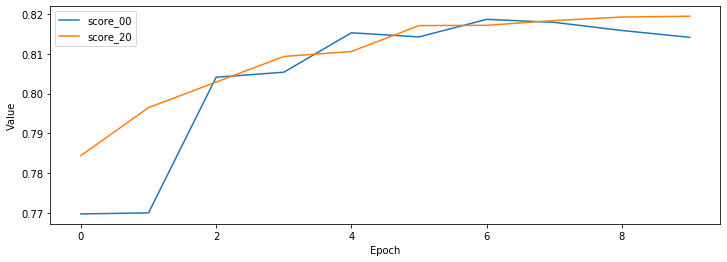
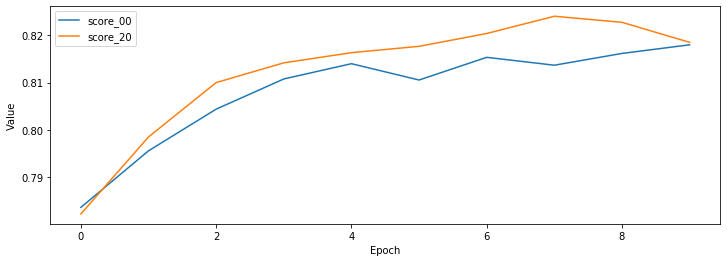
change bert model

diff --git a/_posts/2020-01-02-bert-01.md b/_posts/2020-01-02-bert-01.md
@@ -134,8 +134,13 @@ class Encoder(nn.Module):
 
 #### 3. BERT
 
-BERT는 단순히 Transformer Encoder를 실행합니다.  
-Pretrain된 모델을 저장하기위한 save, 저장된 모델을 읽기위한 load 함수가 추가로 정의 되었습니다.
+BERT 모델 클래스 입니다.
+
+1. BERT는 Transformer Encoder를 실행합니다. (줄: 14)
+2. 1번의 결과(outputs)의 첫 번째([CLS]) Token을 outputs_cls로 저장 합니다. (줄: 16)
+3. outputs_cls에 Linear 및 tanh를 실행합니다. (줄: 17, 18)
+4. Pretrain된 모델을 저장하기위한 save 함수 입니다. (줄: 22 ~ 27)
+5. Pretrain된 모델을 읽기위한 load 함수 입니다. (줄: 29 ~ 32)
 
 ```python
 """ bert """
@@ -145,12 +150,19 @@ class BERT(nn.Module):
         self.config = config
 
         self.encoder = Encoder(self.config)
+
+        self.linear = nn.Linear(config.d_hidn, config.d_hidn)
+        self.activation = torch.tanh
     
     def forward(self, inputs, segments):
         # (bs, n_seq, d_hidn), [(bs, n_head, n_enc_seq, n_enc_seq)]
         outputs, self_attn_probs = self.encoder(inputs, segments)
-        # (bs, n_enc_seq, n_enc_vocab), [(bs, n_head, n_enc_seq, n_enc_seq)]
-        return outputs, self_attn_probs
+        # (bs, d_hidn)
+        outputs_cls = outputs[:, 0].contiguous()
+        outputs_cls = self.linear(outputs_cls)
+        outputs_cls = self.activation(outputs_cls)
+        # (bs, n_enc_seq, n_enc_vocab), (bs, d_hidn), [(bs, n_head, n_enc_seq, n_enc_seq)]
+        return outputs, outputs_cls, self_attn_probs
     
     def save(self, epoch, loss, path):
         torch.save({
@@ -183,9 +195,9 @@ BERT를 Pretrain 하기위한 클래스 입니다.
 1. BERT의 결과를 입력으로 NSP를 예측하기위한 projection_cls를 선언합니다. (줄: 9)
 2. BERT의 결과를 입력으로 MLM을 예측하기위한 projection_lm을 선언합니다. (줄: 11)
 3. projection_lm은 Encoder의 Embedding과 weight를 share 합니다. (줄: 12)
-4. BERT 실행결과의 첫 번째([CLS]) Token을 outputs_cls 변수에 저장합니다. (줄: 18)
-5. outputs_cls를 입력으로 projection_cls를 실행하여 NSP를 예측하도록 합니다. (줄: 20)
-6. BERT 실행결과를 입력으로 projection_lm을 실행하여 MLM을 예측하도록 합니다. (줄: 22)
+4. inputs, segments를 입력으로 BERT를 실행합니다. (줄: 16)
+5. outputs_cls를 입력으로 projection_cls를 실행하여 NSP를 예측하도록 합니다. (줄: 18)
+6. outputs를 입력으로 projection_lm을 실행하여 MLM을 예측하도록 합니다. (줄: 20)
 
 ```python
 """ BERT pretrain """
@@ -202,10 +214,8 @@ class BERTPretrain(nn.Module):
         self.projection_lm.weight = self.bert.encoder.enc_emb.weight
     
     def forward(self, inputs, segments):
-        # (bs, n_enc_seq, d_hidn), [(bs, n_head, n_enc_seq, n_enc_seq)]
-        outputs, attn_probs = self.bert(inputs, segments)
-        # (bs, d_hidn)
-        outputs_cls = outputs[:, 0].contiguous()
+        # (bs, n_enc_seq, d_hidn), (bs, d_hidn), [(bs, n_head, n_enc_seq, n_enc_seq)]
+        outputs, outputs_cls, attn_probs = self.bert(inputs, segments)
         # (bs, 2)
         logits_cls = self.projection_cls(outputs_cls)
         # (bs, n_enc_seq, n_enc_vocab)
@@ -678,17 +688,17 @@ plt.show()
 {:class="table table-bordered"}
 | epoch | loss      |
 |-------|-----------|
-| 0     | 18.484688 |
-| 4     | 6.915976  |
-| 9     | 6.775770  |
-| 14    | 6.729479  |
-| 19    | 6.710058  |
+| 0     | 18.027608 |
+| 4     | 6.909906  |
+| 9     | 6.774536  |
+| 14    | 6.727837  |
+| 19    | 6.707203  |
 
 ![](../assets/2020-01-02/pretrain-result.png)
 
 #### 9. 참고
 
-다음 포스트 ‘BERT(Bidirectional Encoder Representations from Transformers) 구현하기 (2/2)’에서는 BERT를 이용해서 ‘Naver 영화리뷰 감정분석’ 과정을 정리 하겠습니다.
+다음 포스트 [BERT(Bidirectional Encoder Representations from Transformers) 구현하기 (2/2)](../bert-02/)에서는 BERT를 이용해서 ‘Naver 영화리뷰 감정분석’ 과정을 정리 하겠습니다.
 
 자세한 내용은 다음을 참고 하세요.
 

diff --git a/_posts/2020-01-02-bert-02.md b/_posts/2020-01-02-bert-02.md
@@ -30,7 +30,7 @@ Naver 영화리뷰 감정분석은 Classification task로 위 그림과 같이 '
 [BERT(Bidirectional Encoder Representations from Transformers) 구현하기 (1/2)](../bert-01/)의 BERT 클래스를 이용하여 Naver 영화리뷰 감정분석 분류 모델 클래스를 아래와 같이 정의 합니다.
 
 1. inputs, segments를 입력으로 BERT 모델을 실행 합니다. (줄: 13)
-2. 1변 결과의 첫 번째 값을 Classification을 위한 값으로 사용합니다. (줄: 15, 17)
+2. 1변 결과의 outputs_cls 값을 Classification을 위한 값으로 사용합니다. (줄: 15)
 
 ```python
 """ naver movie classfication """
@@ -44,12 +44,10 @@ class MovieClassification(nn.Module):
         self.projection_cls = nn.Linear(self.config.d_hidn, self.config.n_output, bias=False)
     
     def forward(self, inputs, segments):
-        # (bs, n_enc_seq, d_hidn), [(bs, n_head, n_enc_seq, n_enc_seq)]
-        output, attn_probs = self.bert(inputs, segments)
-        # (bs, d_hidn)
-        output = output[:, 0].contiguous()
+        # (bs, n_enc_seq, d_hidn), (bs, d_hidn), [(bs, n_head, n_enc_seq, n_enc_seq)]
+        outputs, outputs_cls, attn_probs = self.bert(inputs, segments)
         # (bs, n_output)
-        logits_cls = self.projection_cls(output)
+        logits_cls = self.projection_cls(outputs_cls)
         # (bs, n_output), [(bs, n_head, n_enc_seq, n_enc_seq)]
         return logits_cls, attn_probs
 ```
@@ -316,16 +314,16 @@ plt.show()
 {:class="table table-bordered"}
 | loss_00  | socre_00 | loss_20  | socre_20 |
 |----------|----------|----------|----------|
-| 0.522875 | 0.769746 | 0.515364 | 0.784407 |
-| 0.433188 | 0.770006 | 0.433868 | 0.796488 |
-| 0.407593 | 0.804128 | 0.402953 | 0.802908 |
-| 0.388438 | 0.805388 | 0.382260 | 0.809349 |
-| 0.372958 | 0.815309 | 0.363861 | 0.810609 |
-| 0.357438 | 0.814269 | 0.346687 | 0.817109 |
-| 0.343040 | 0.818689 | 0.329133 | 0.817189 |
-| 0.326658 | 0.817929 | 0.312557 | 0.818389 |
-| 0.309460 | 0.815889 | 0.296338 | 0.819269 |
-| 0.292144 | 0.814169 | 0.277609 | 0.819469 |
+| 0.522093 | 0.783687 | 0.515065 | 0.782307 |
+| 0.436096 | 0.795608 | 0.434717 | 0.798528 |
+| 0.408585 | 0.804388 | 0.405332 | 0.809989 |
+| 0.388935 | 0.810749 | 0.383013 | 0.814149 |
+| 0.371047 | 0.813969 | 0.364083 | 0.816289 |
+| 0.355533 | 0.810529 | 0.347914 | 0.817629 |
+| 0.341048 | 0.815309 | 0.329771 | 0.820329 |
+| 0.324362 | 0.813649 | 0.311193 | 0.823969 |
+| 0.307140 | 0.816129 | 0.295256 | 0.822689 |
+| 0.289369 | 0.817949 | 0.276582 | 0.818469 |
 
 ![](../assets/2020-01-02/nsmc-result.png)
 
